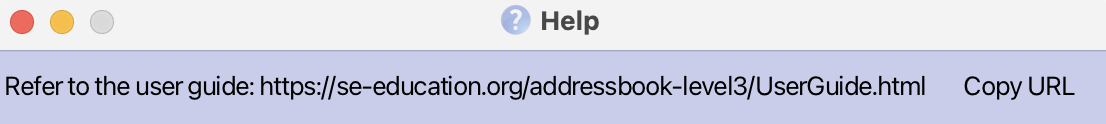
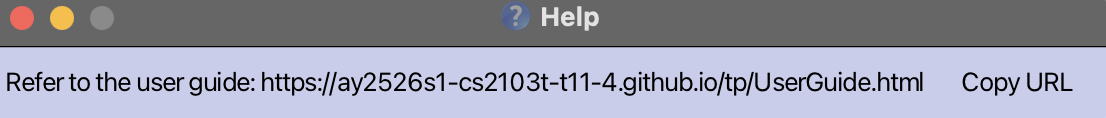
Update UG

diff --git a/src/main/java/seedu/address/ui/HelpWindow.java b/src/main/java/seedu/address/ui/HelpWindow.java
@@ -15,7 +15,7 @@ import seedu.address.commons.core.LogsCenter;
  */
 public class HelpWindow extends UiPart<Stage> {
 
-    public static final String USERGUIDE_URL = "https://se-education.org/addressbook-level3/UserGuide.html";
+    public static final String USERGUIDE_URL = "https://ay2526s1-cs2103t-t11-4.github.io/tp/UserGuide.html";
     public static final String HELP_MESSAGE = "Refer to the user guide: " + USERGUIDE_URL;
 
     private static final Logger logger = LogsCenter.getLogger(HelpWindow.class);
